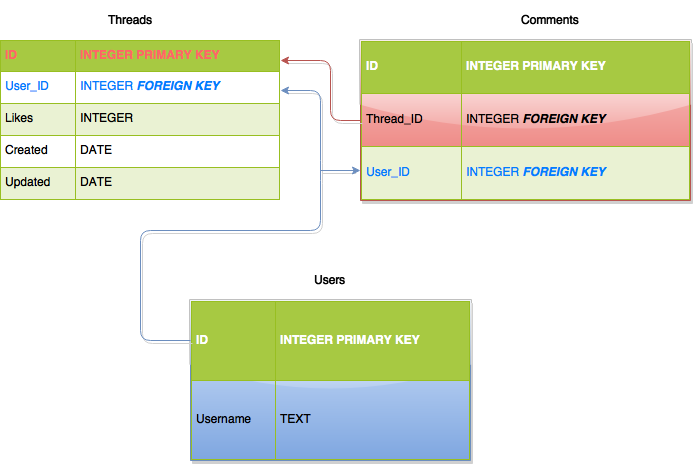
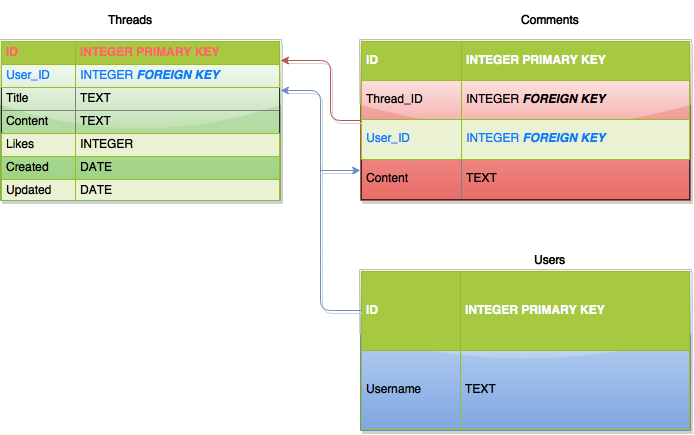
start landing page and amended readme

diff --git a/forum.js b/forum.js
@@ -21,10 +21,20 @@ app.get("/",function(req,res){
 
 //'home' page
 app.get("/threads", function(req,res){
-	//needs db.all
-	res.render("index.ejs")
+	db.all("SELECT title FROM threads",function(err,row){
+		if(err){
+			throw err;
+		}else{
+			res.render("index.ejs",{threads:row})
+		};
+	});
 });
 
+//'specific thread' page
+app.get("/threads/:id", function)
+
+//grabs meta-data of specific thread
+//SELECT * FROM threads INNER JOIN users ON threads.id=2 WHERE users.id=threads.user_id;
 
 //'Server listening' and end of code
 app.listen(3000,function(){

diff --git a/README/README.md b/README/README.md
@@ -2,7 +2,11 @@
 ##Forum Project
 ###**User Story**
 1. User should be able to perform basic CRUD (post new thread, read previous threads, and edit and delete his/her own thread)
+	* When creating a new thread, user can choose a profile name, submit, or delete
+	* When editing, user can submit or cancel
+	* When reading a thread, user can like or choose a profile name and leave a comment
 2. Posts should have a vote up/like functionality 
+	* Users can only like a post once
 3. User can filter posts by number of likes or comments
 4. Include responsiveness across different platforms
 
@@ -21,12 +25,12 @@
 7. If user deletes, the post is removed from database, and user is redirected to main page.
 
 ###**Routes**
-1. "/home" - main page
-2. "/home/likes" - filtered by # of likes
-3. "/home/comment/" - filtered by # of comments
-4. "/home/:id" - specific thread
-5. "/home/:id/edit" - edit page
-6. "/home/:id/new" - add new comment
+1. "/threads" - main page
+2. "/threads/likes" - filtered by # of likes
+3. "/threads/comment/" - filtered by # of comments
+4. "/threads/:id" - specific thread
+5. "/threads/:id/edit" - edit page
+6. "/threads/:id/new" - add new comment
 
 ###**ERD**
 ![ERD](ERD.png)
